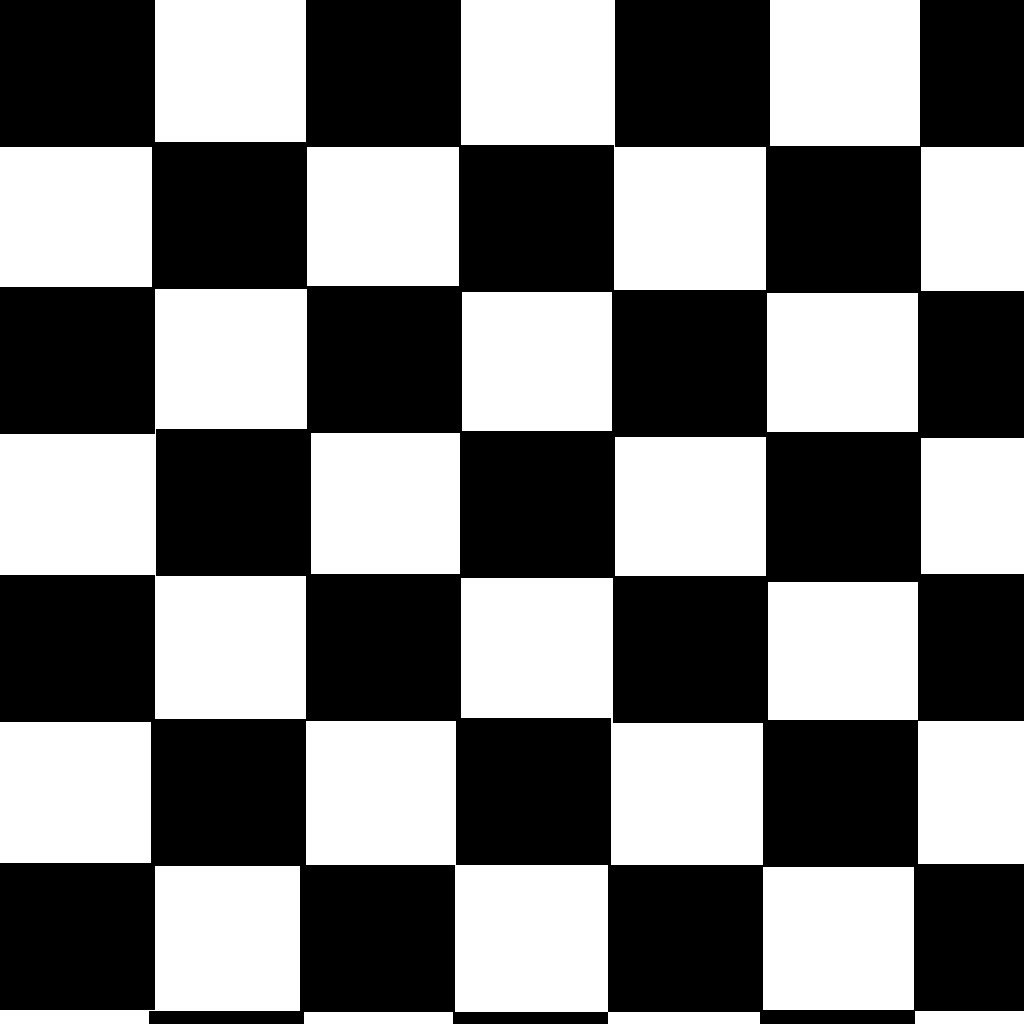
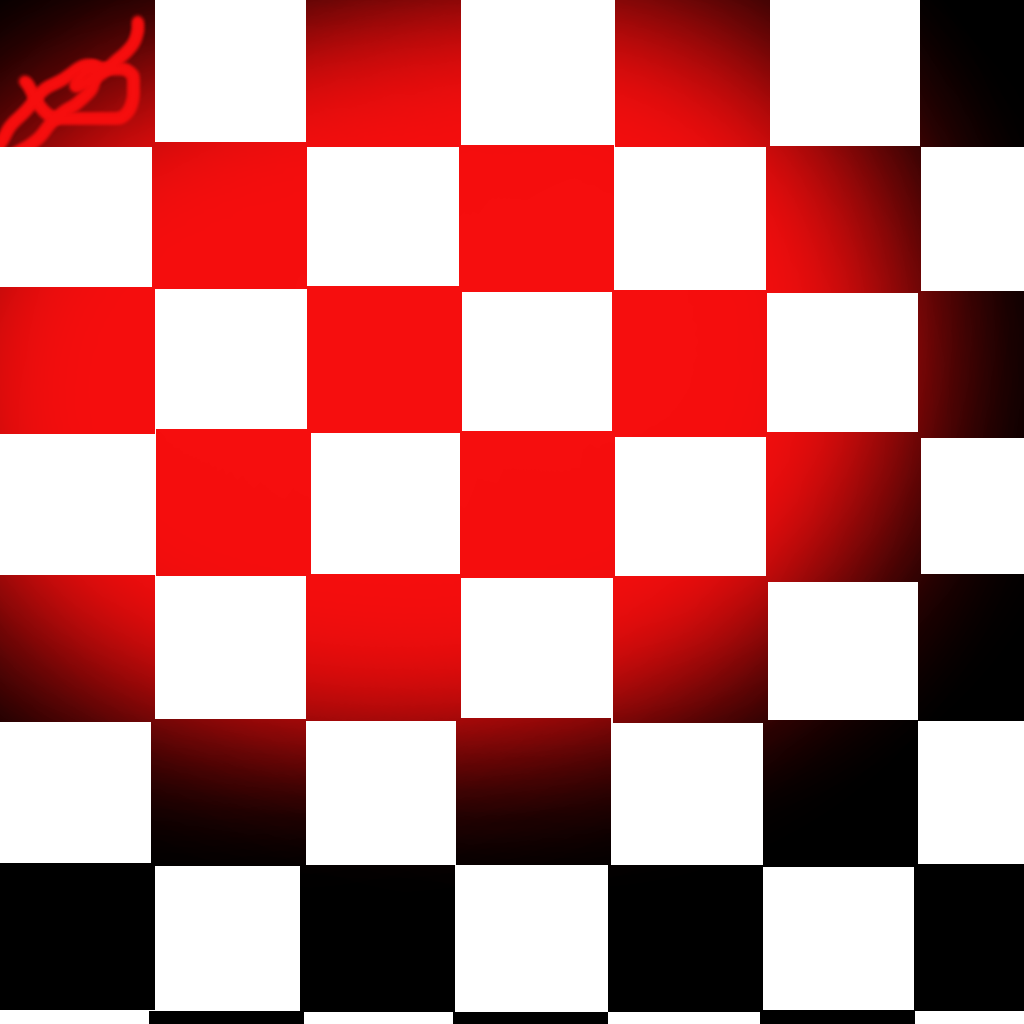
Not Rendering checkerboard....

diff --git a/PA6/src/object.cpp b/PA6/src/object.cpp
@@ -111,42 +111,36 @@ bool Object::loadModelFromFile( const std::string& fileName )
 void Object::Render()
 {
     unsigned int index;
+
     //no model, nothing to render
     if( objModelPtr == NULL )
     {
         return;
     }
-    
-    
+
+    glEnableVertexAttribArray( 0 );
+    glEnableVertexAttribArray( 1 );
+
+    glBindBuffer( GL_ARRAY_BUFFER, objModelPtr->vertexBuffer( ) );
+    glVertexAttribPointer( 0, 3, GL_FLOAT, GL_FALSE, sizeof( Vertex ), 0 );
+    glVertexAttribPointer( 1, 3, GL_FLOAT, GL_FALSE, sizeof( Vertex ),
+        ( void* ) offsetof( Vertex, uv ) );
 
     for( index = 0; index < objModelPtr->getNumberOfIBs( ); index++ )
     {
-        glEnableVertexAttribArray( 0 );
-        glEnableVertexAttribArray( 1 );
-        glEnableVertexAttribArray( objModelPtr->TextureUniformLocation( ) );
-
-        glActiveTexture( GL_TEXTURE0 );
+        glUniform1i( objModelPtr->TextureUniformLocation( ), 0 );
+        glActiveTexture( GL_TEXTURE0 );        
         glBindTexture( GL_TEXTURE_2D, objModelPtr->Texture( index ) );
-
-        //glVertexAttribPointer( objModelPtr->TextureUniformLocation( ), 3, GL_UNSIGNED_BYTE, GL_FALSE, sizeof( char ), 0 );
-
-        //glUniform1i( objModelPtr->TextureUniformLocation( ), 0 );
-
-        glBindBuffer( GL_ARRAY_BUFFER, objModelPtr->vertexBuffer( ) );
-        glVertexAttribPointer( 0, 3, GL_FLOAT, GL_FALSE, sizeof( Vertex ), 0 );
-        glVertexAttribPointer( 1, 3, GL_FLOAT, GL_FALSE, sizeof( Vertex ),
-                               ( void* ) offsetof( Vertex, uv ) );
+        
 
         glBindBuffer( GL_ELEMENT_ARRAY_BUFFER, objModelPtr->indexBuffer( index ) );
         glDrawElements( GL_TRIANGLES,
                         objModelPtr->getIndices( index ).size( ), 
-                        GL_UNSIGNED_INT, 0 );
+                        GL_UNSIGNED_INT, 0 );        
+    }
 
-        glDisableVertexAttribArray( 0 );
-        glDisableVertexAttribArray( 1 );
-        glDisableVertexAttribArray( objModelPtr->TextureUniformLocation( ) );
-
-    }          
+    glDisableVertexAttribArray( 0 );
+    glDisableVertexAttribArray( 1 );
 }
 
 // UPDATE ROTATION RATE //////////////////

diff --git a/PA6/src/ObjectModel.cpp b/PA6/src/ObjectModel.cpp
@@ -395,6 +395,7 @@ bool ObjectModel::loadModelFromFile( const std::string& fileName )
     //the 8-bit, 16-bit, 32-bit types can be signed or unsigned
     for( tIndex = 0; tIndex < textureFileNames.size( ); tIndex++ )
     {
+        std::cout << pathString + textureFileNames[ tIndex ] << std::endl;
         tmpImg = cv::imread( pathString + textureFileNames[ tIndex ], 
                              CV_LOAD_IMAGE_COLOR );
 
@@ -417,9 +418,7 @@ bool ObjectModel::loadModelFromFile( const std::string& fileName )
                   &Vertices[ 0 ], //data
                   GL_STATIC_DRAW ); //draw mode
 
-    IB.resize( Indices.size( ) );
-
-    
+    IB.resize( Indices.size( ) );   
 
     for( iIndex = 0; iIndex < IB.size( ); iIndex++ )
     {
@@ -435,10 +434,7 @@ bool ObjectModel::loadModelFromFile( const std::string& fileName )
 
     for( tIndex = 0; tIndex < texture.size( ); tIndex++ )
     {
-
-        glGenTextures( 1, &texture[ tIndex ] );
-
-        glActiveTexture( GL_TEXTURE0 );
+        glGenTextures( 1, &texture[ tIndex ] );        
 
         glBindTexture( GL_TEXTURE_2D, texture[ tIndex ] );
 
